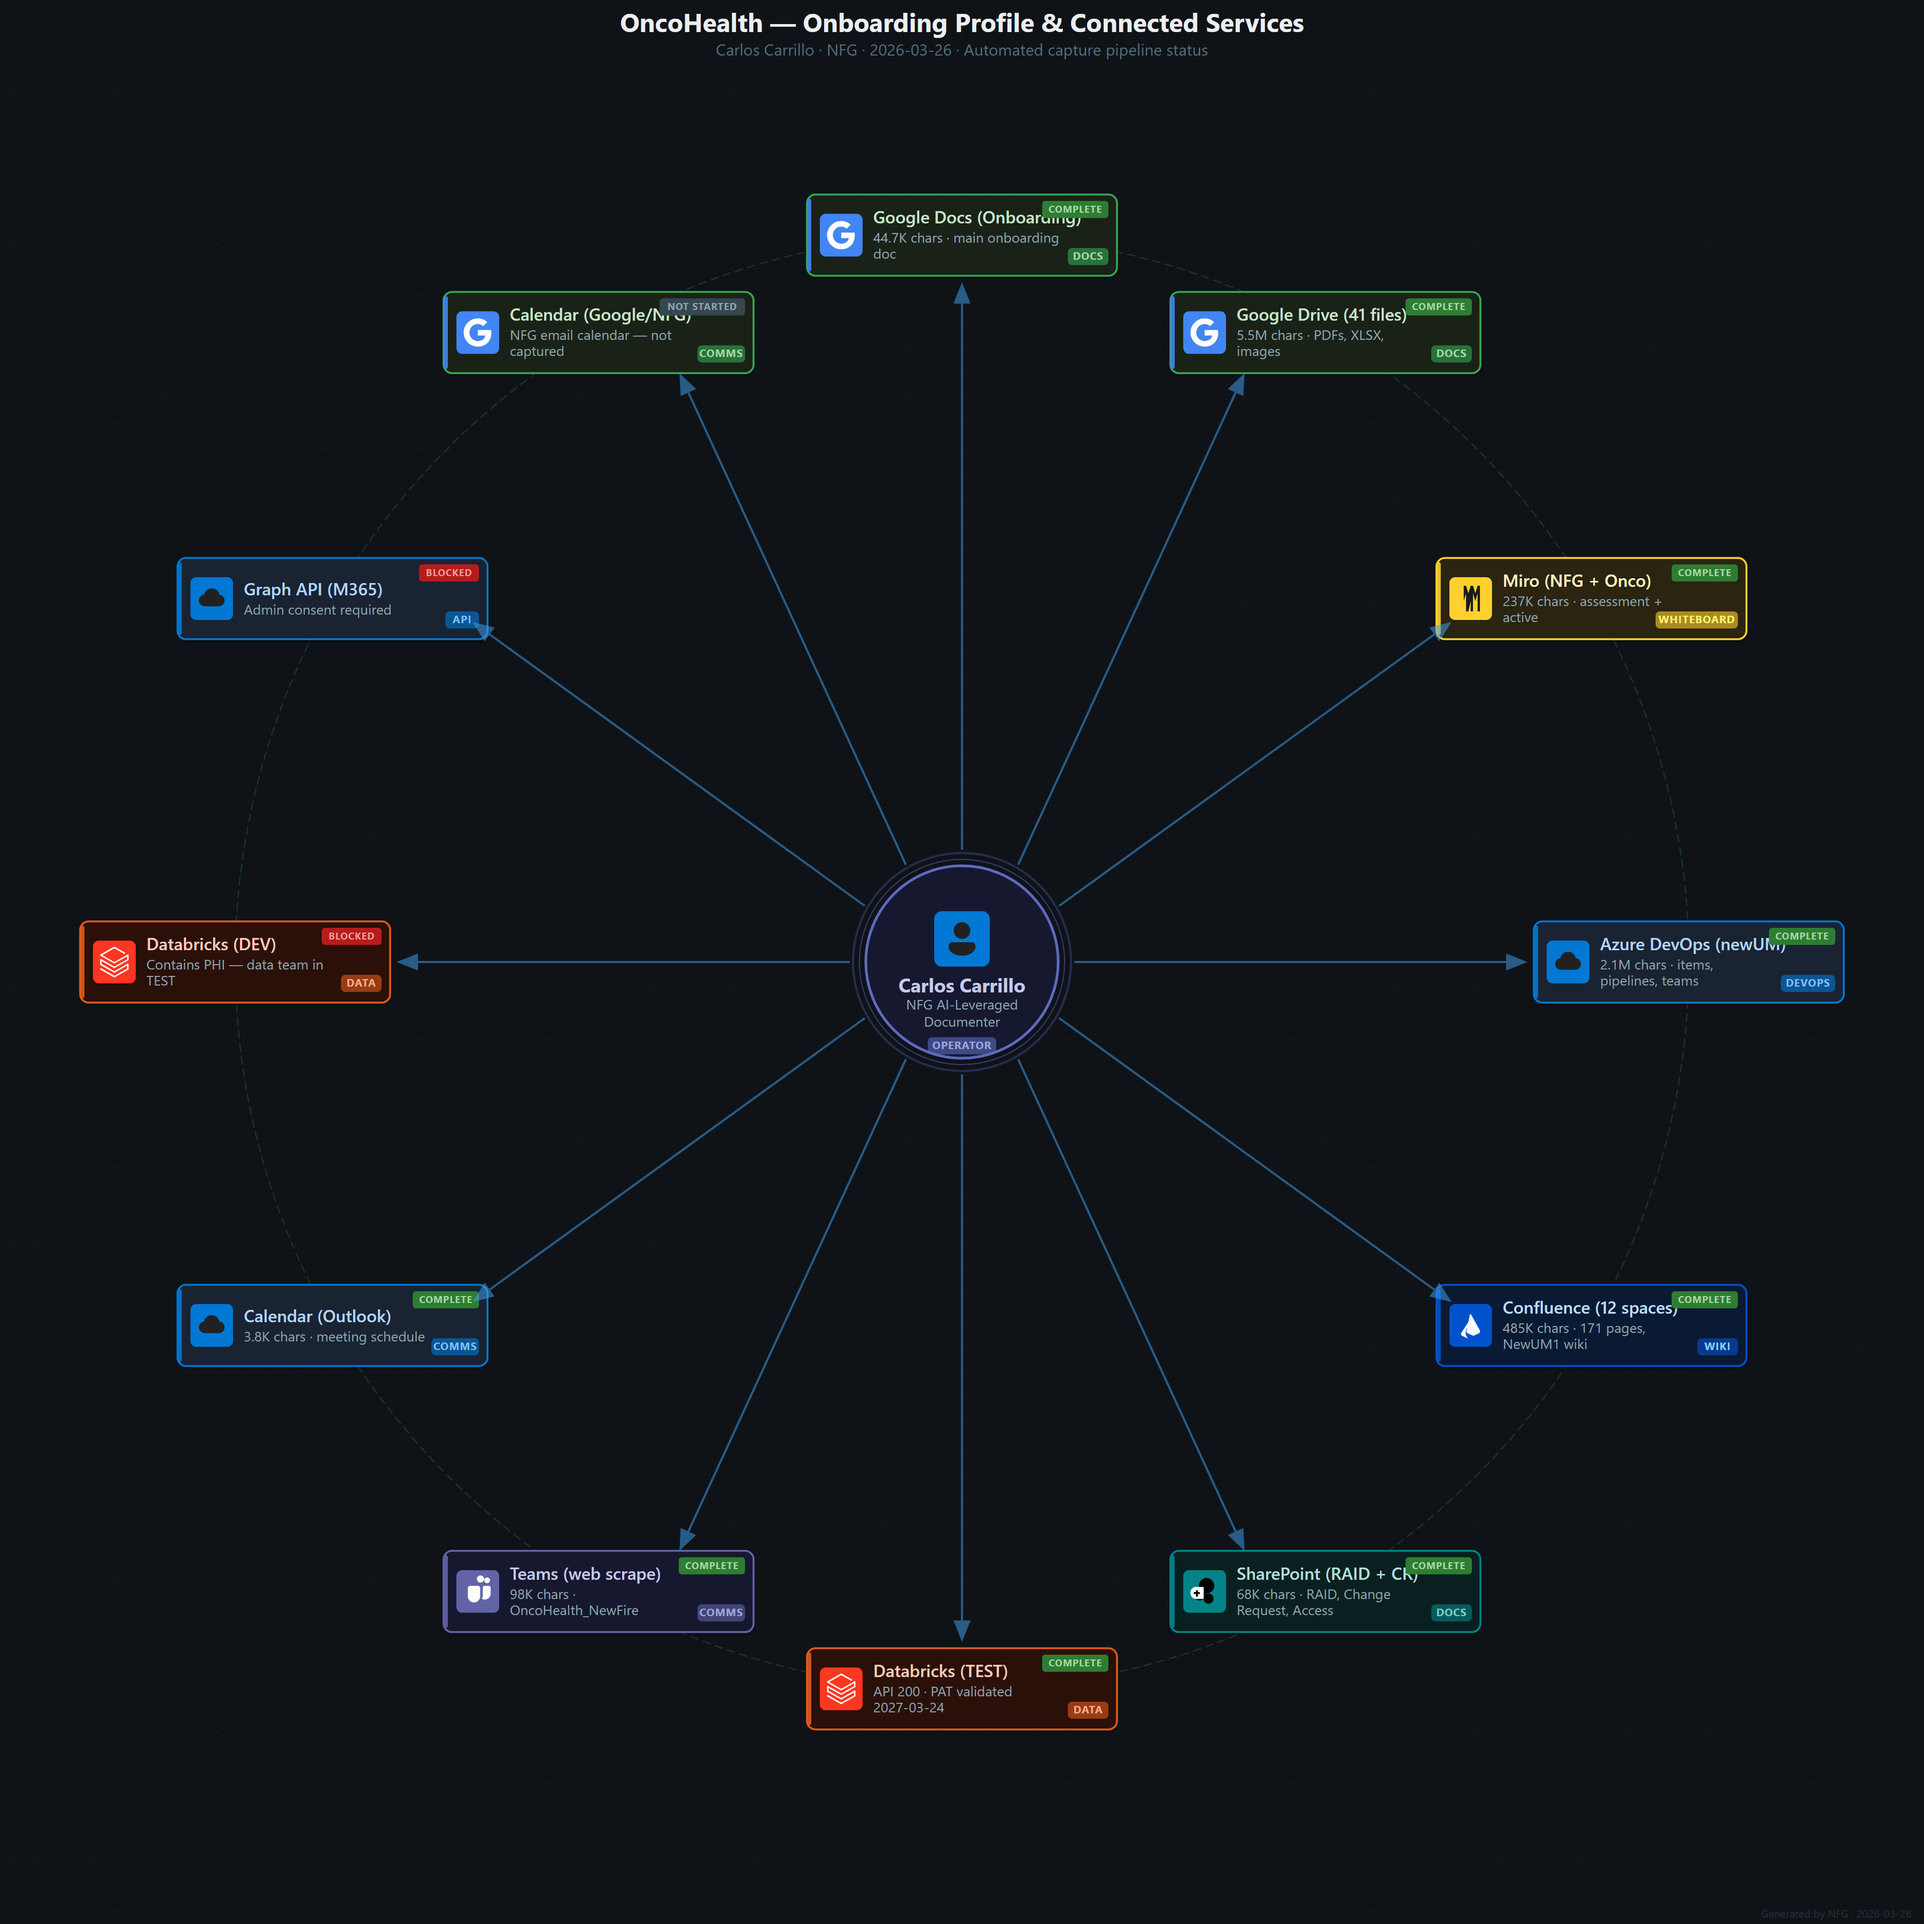
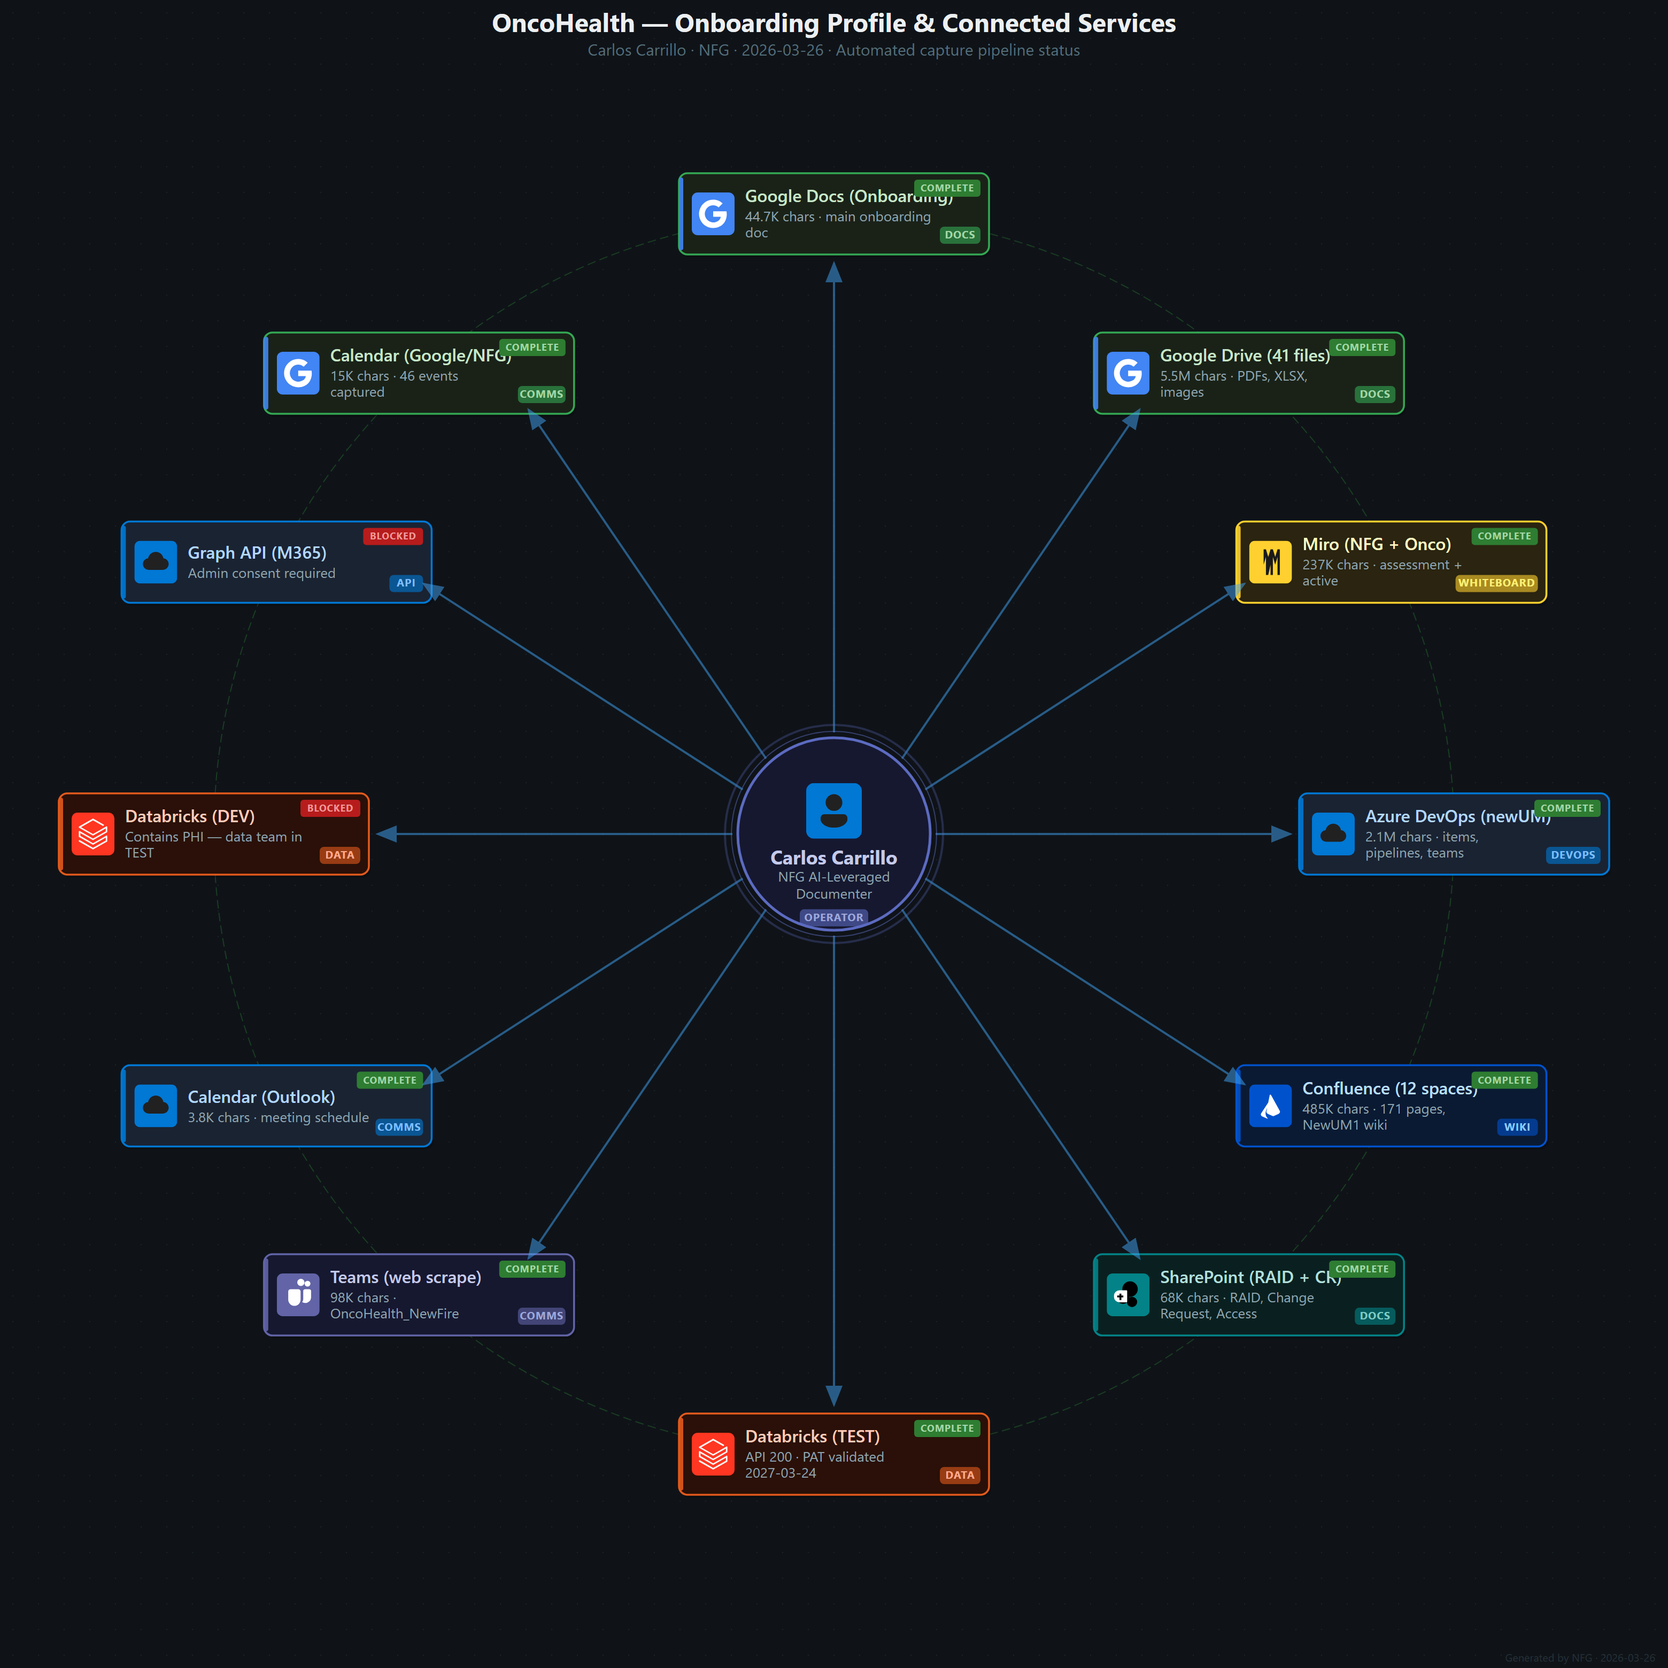
fix: radial diagram distribution — per-node angle override
- Add per-node angle support in render-diagram.js (n.angle override)
- Apply optimized non-uniform angles to 12 nodes (min gap 2px -> 98px)
- Tight pairs at top/bottom (-90/90 deg) now properly spaced
- 0 overlaps verified, arrow length unchanged (r=580)

diff --git a/shared/render-diagram.js b/shared/render-diagram.js
@@ -509,7 +509,7 @@ function buildRadialFromConfig(diagram) {
 
     for (let i = 0; i < nodes.length; i++) {
       const n = nodes[i];
-      const angleDeg = startAngle + (sweep / nodes.length) * i;
+      const angleDeg = n.angle != null ? n.angle : (startAngle + (sweep / nodes.length) * i);
       const angleRad = angleDeg * Math.PI / 180;
 
       const nx = cx + radius * Math.cos(angleRad) - nodeW / 2;
